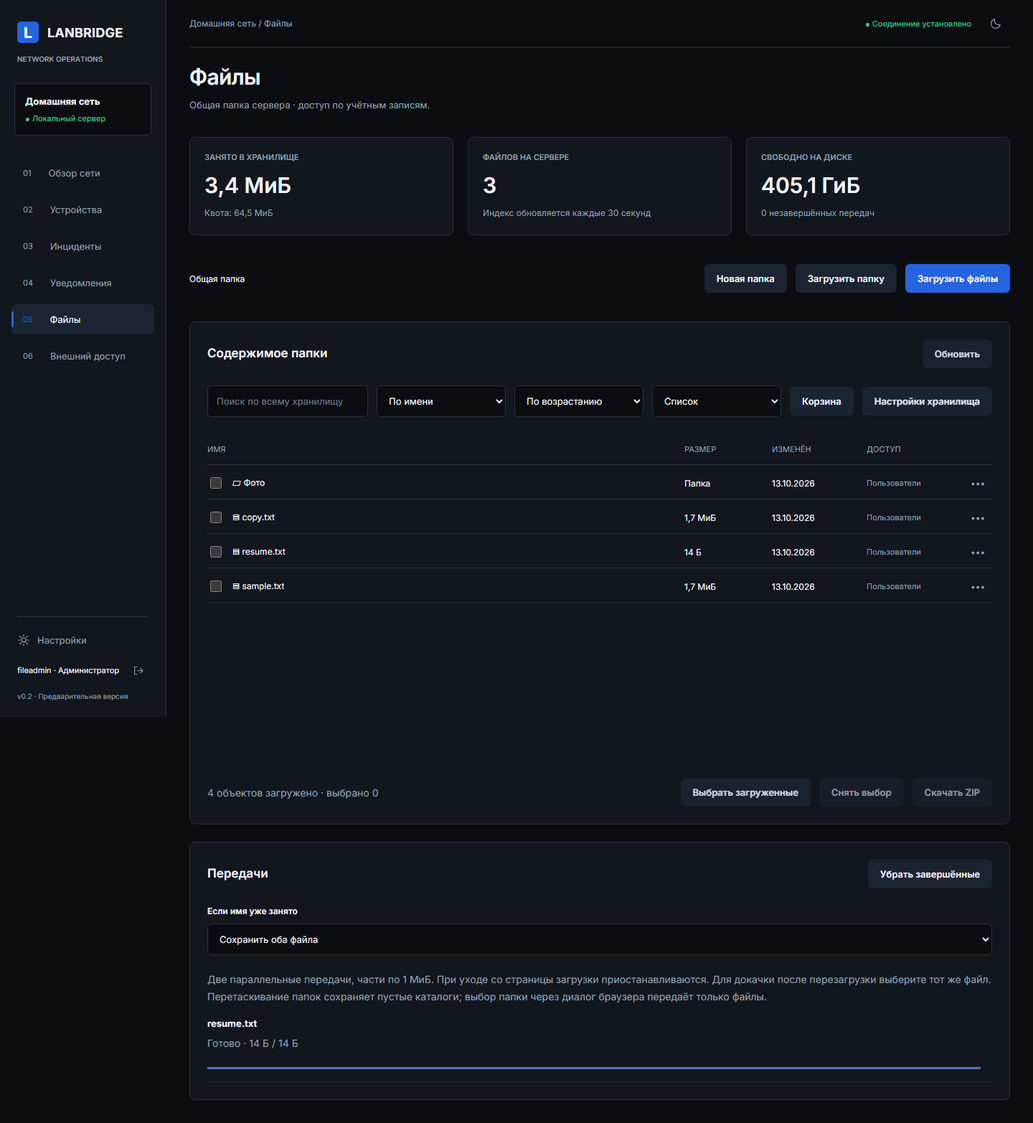
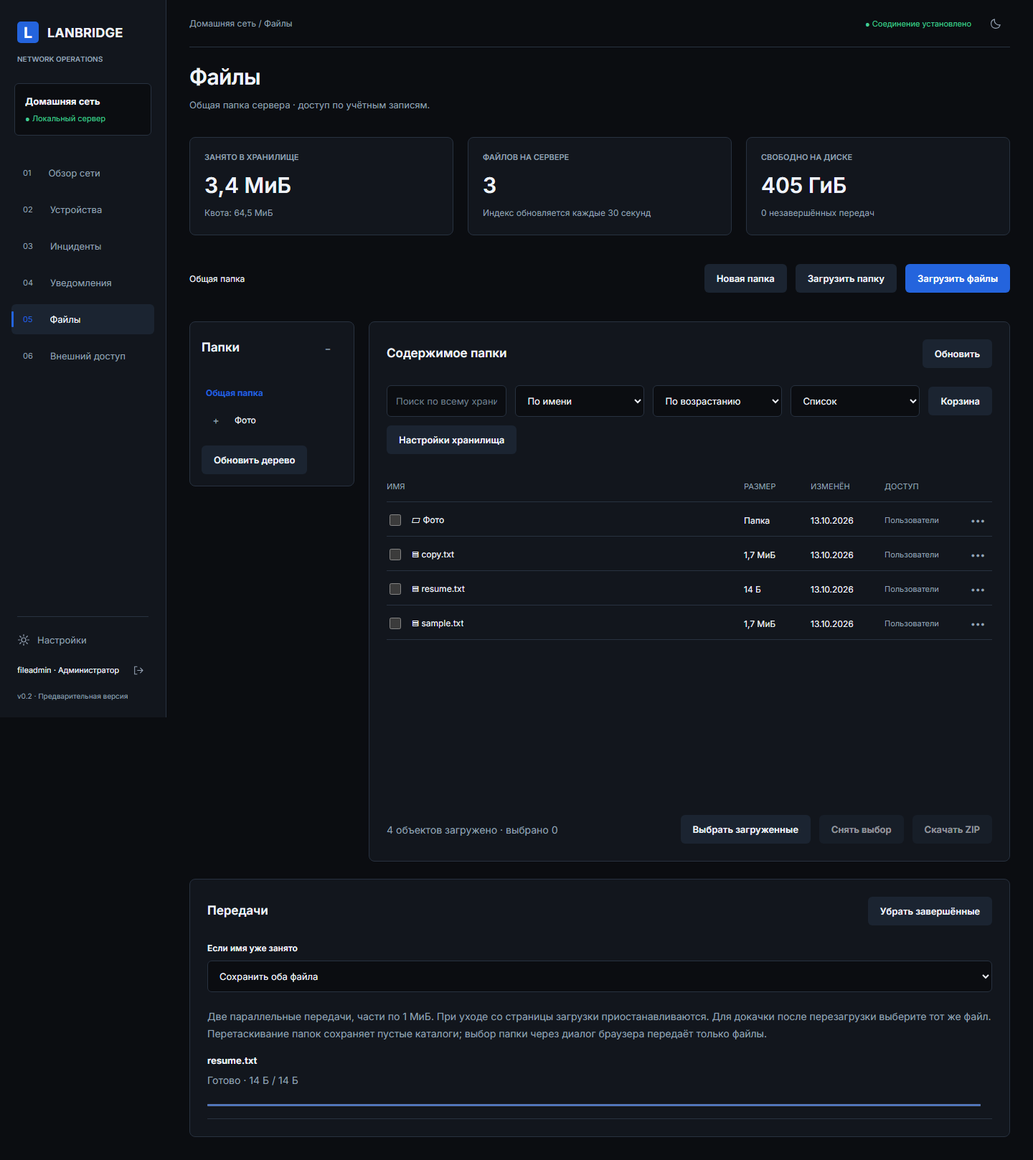
feat: add lazy folder tree with authorized pagination

diff --git a/web/src/files.js b/web/src/files.js
@@ -1,8 +1,9 @@
 import {h} from 'preact';
-import {useEffect,useRef,useState} from 'preact/hooks';
+import {useEffect,useLayoutEffect,useRef,useState} from 'preact/hooks';
 import htm from 'htm';
 import {StorageSettings} from './storage-settings.js';
 import {FilePreview} from './file-preview.js';
+import {FolderTree} from './folder-tree.js';
 const html=htm.bind(h);
 export const bytes=n=>{if(!n)return '0 Б';const k=Math.min(4,Math.floor(Math.log(n)/Math.log(1024)));return (n/1024**k).toLocaleString('ru-RU',{maximumFractionDigits:1})+' '+['Б','КиБ','МиБ','ГиБ','ТиБ'][k]};
 const join=(folder,name)=>folder==='.'?name:folder+'/'+name;
@@ -46,7 +47,7 @@ export function FileBrowser({api,notify,user,csrf}){
  async function operate(e){e.preventDefault();const f=new FormData(e.currentTarget);try{if(dialog.action==='mkdir')await api('files/mkdir','POST',{path:join(folder,f.get('name'))});else if(dialog.action==='access')await api('files/access','PUT',{path:dialog.item.path,access:f.get('access')});else await api('files/operation','POST',{action:dialog.action,source:dialog.item.path,target:f.get('name')||'',conflict:f.get('conflict')||'skip'});setDialog(null);refresh()}catch(e){notify(e.message,true)}}
  const columns=view==='grid'?Math.max(1,Math.min(5,Math.floor(width/220))):1;
  useEffect(()=>{const observer=new ResizeObserver(([entry])=>setWidth(entry.contentRect.width));observer.observe(viewport.current);return()=>observer.disconnect()},[]);
- useEffect(()=>{setScroll(0);if(viewport.current)viewport.current.scrollTop=0},[view,columns]);
+ useLayoutEffect(()=>{setScroll(0);if(viewport.current)viewport.current.scrollTop=0},[view,columns]);
  const rowHeight=view==='grid'?144:48;
  const start=Math.max(0,Math.floor(scroll/rowHeight)-(view==='grid'?1:3))*columns;
  const visible=items.slice(start,start+(view==='grid'?7*columns:18));
@@ -58,8 +59,8 @@ export function FileBrowser({api,notify,user,csrf}){
  return html`<div class="stats three"><section class="stat"><h2>ЗАНЯТО В ХРАНИЛИЩЕ</h2><strong>${storage?bytes(storage.used):'—'}</strong><p>${storage?.settings.global_limit?'Квота: '+bytes(storage.settings.global_limit):'Квота не ограничена'}</p></section><section class="stat"><h2>ФАЙЛОВ НА СЕРВЕРЕ</h2><strong>${storage?.files??'—'}</strong><p>Индекс обновляется каждые 30 секунд</p></section><section class="stat"><h2>СВОБОДНО НА ДИСКЕ</h2><strong>${storage?bytes(storage.available):'—'}</strong><p>${busy} незавершённых передач</p></section></div>
  <div class="file-actions"><nav aria-label="Путь к папке"><button class="monitor-name" onClick=${()=>setFolder('.')}>Общая папка</button>${folder!=='.'&&folder.split('/').map((part,i)=>html`<span> / <button class="monitor-name" onClick=${()=>setFolder(folder.split('/').slice(0,i+1).join('/'))}>${part}</button></span>`)}</nav><div class="dialog-actions"><button class="button secondary" onClick=${()=>setDialog({action:'mkdir'})}>Новая папка</button><button class="button secondary" onClick=${()=>directory.current.click()}>Загрузить папку</button><button class="button" onClick=${()=>input.current.click()}>Загрузить файлы</button></div></div>
  <input hidden type="file" multiple ref=${input} onChange=${e=>{addFiles(Array.from(e.currentTarget.files));e.currentTarget.value=''}}/><input hidden type="file" multiple webkitdirectory=${true} ref=${directory} onChange=${e=>{addFiles(Array.from(e.currentTarget.files));e.currentTarget.value=''}}/><input hidden type="file" ref=${resumeInput} onChange=${e=>{const file=e.currentTarget.files[0],j=resumeItem.current;if(file&&j){if(file.size!==j.size)notify('Размер исходного файла не совпадает',true);else{j.file=file;j.state='queued';redraw();pump()}}e.currentTarget.value=''}}/>
- <section class="panel file-panel" onDragOver=${e=>e.preventDefault()} onDrop=${dropped}><div class="panel-heading"><h2>Содержимое папки</h2><button class="button secondary" onClick=${()=>refresh()} disabled=${loading}>Обновить</button></div><div class="toolbar"><input aria-label="Поиск файлов" placeholder="Поиск по всему хранилищу" value=${query} onInput=${e=>setQuery(e.currentTarget.value)}/><select aria-label="Сортировка файлов" value=${sort} onChange=${e=>setSort(e.currentTarget.value)}><option value="name">По имени</option><option value="size">По размеру</option><option value="modified">По дате</option></select><select aria-label="Порядок сортировки" value=${order} onChange=${e=>setOrder(e.currentTarget.value)}><option value="asc">По возрастанию</option><option value="desc">По убыванию</option></select><select aria-label="Вид файлов" value=${view} onChange=${e=>setView(e.currentTarget.value)}><option value="list">Список</option><option value="grid">Плитки</option></select><button class="button secondary" onClick=${openTrash}>Корзина</button>${user.role==='admin'&&html`<button class="button secondary" disabled=${!storage} onClick=${()=>setDialog({action:'storage'})}>Настройки хранилища</button>`}</div>${error&&html`<p class="form-error" role="alert">${error}</p>`}
- <div class="file-list-head" hidden=${view==='grid'}><span>ИМЯ</span><span>РАЗМЕР</span><span>ИЗМЕНЁН</span><span>ДОСТУП</span></div><div class="file-viewport" ref=${viewport} onScroll=${e=>setScroll(e.currentTarget.scrollTop)} aria-label="Список файлов" aria-busy=${loading} role="list"><div style=${{height:Math.max(Math.ceil(items.length/columns)*rowHeight,items.length?0:140)+'px',position:'relative'}}>${visible.map((item,i)=>html`<div role="listitem" class=${view==='grid'?'file-row file-tile':'file-row'} key=${item.path} aria-posinset=${start+i+1} aria-setsize=${items.length} style=${view==='grid'?{top:(Math.floor((start+i)/columns)*rowHeight)+'px',left:((start+i)%columns*100/columns)+'%',width:'calc('+100/columns+'% - 10px)'}:{top:((start+i)*48)+'px'}}><div class="file-name"><input type="checkbox" aria-label=${'Выбрать '+item.name} checked=${selected.includes(item.path)} disabled=${!selected.includes(item.path)&&selected.length>=1000} onChange=${e=>toggleSelection(item.path,e.currentTarget.checked)}/>${item.directory?html`<button class="monitor-name" title=${item.path} onClick=${()=>{setFolder(item.path);setQuery('')}}>▱ ${item.name}</button>`:html`<a title=${item.path} href=${download(item.path)}>▤ ${item.name}</a>`}</div><span>${item.directory?'Папка':bytes(item.size)}</span><span>${new Date(item.modified/1e6).toLocaleDateString('ru-RU')}</span><div class="file-row-end"><span>${{users:'Пользователи',admin:'Администратор',read:'Чтение'}[item.access]}</span><button class="icon-button" aria-label=${'Действия: '+item.name} onClick=${()=>setDialog({action:'menu',item})}>•••</button></div></div>`)}${!items.length&&html`<div class="empty compact"><h3>${loading?'Загрузка…':query?'Ничего не найдено':'Папка пуста'}</h3><p>Перетащите сюда файлы или папки.</p></div>`}</div></div><div class="file-actions"><span class="muted">${items.length} объектов загружено · выбрано ${selected.length}</span><div class="dialog-actions">${more&&html`<button class="button secondary" disabled=${loading} onClick=${()=>refresh(true)}>Загрузить ещё</button>`}<button class="button secondary" disabled=${!items.length||loading} onClick=${selectLoaded}>${items.length>1000?'Выбрать первые 1000':'Выбрать загруженные'}</button><button class="button secondary" disabled=${!selected.length} onClick=${()=>setSelected([])}>Снять выбор</button><button class="button secondary" disabled=${!selected.length||zipTooLarge} onClick=${zip}>Скачать ZIP</button></div></div>${zipTooLarge&&html`<p class="warning" role="status">Сократите выбор: общий список имён слишком большой. Можно выбрать родительскую папку вместо отдельных файлов.</p>`}</section>
+ <div class="file-browser-layout"><${FolderTree} api=${api} folder=${folder} onNavigate=${path=>{setFolder(path);setQuery('')}}/><section class="panel file-panel" onDragOver=${e=>e.preventDefault()} onDrop=${dropped}><div class="panel-heading"><h2>Содержимое папки</h2><button class="button secondary" onClick=${()=>refresh()} disabled=${loading}>Обновить</button></div><div class="toolbar"><input aria-label="Поиск файлов" placeholder="Поиск по всему хранилищу" value=${query} onInput=${e=>setQuery(e.currentTarget.value)}/><select aria-label="Сортировка файлов" value=${sort} onChange=${e=>setSort(e.currentTarget.value)}><option value="name">По имени</option><option value="size">По размеру</option><option value="modified">По дате</option></select><select aria-label="Порядок сортировки" value=${order} onChange=${e=>setOrder(e.currentTarget.value)}><option value="asc">По возрастанию</option><option value="desc">По убыванию</option></select><select aria-label="Вид файлов" value=${view} onChange=${e=>setView(e.currentTarget.value)}><option value="list">Список</option><option value="grid">Плитки</option></select><button class="button secondary" onClick=${openTrash}>Корзина</button>${user.role==='admin'&&html`<button class="button secondary" disabled=${!storage} onClick=${()=>setDialog({action:'storage'})}>Настройки хранилища</button>`}</div>${error&&html`<p class="form-error" role="alert">${error}</p>`}
+ <div class="file-list-head" hidden=${view==='grid'}><span>ИМЯ</span><span>РАЗМЕР</span><span>ИЗМЕНЁН</span><span>ДОСТУП</span></div><div class="file-viewport" ref=${viewport} onScroll=${e=>setScroll(e.currentTarget.scrollTop)} aria-label="Список файлов" aria-busy=${loading} role="list"><div style=${{height:Math.max(Math.ceil(items.length/columns)*rowHeight,items.length?0:140)+'px',position:'relative'}}>${visible.map((item,i)=>html`<div role="listitem" class=${view==='grid'?'file-row file-tile':'file-row'} key=${item.path} aria-posinset=${start+i+1} aria-setsize=${items.length} style=${view==='grid'?{top:(Math.floor((start+i)/columns)*rowHeight)+'px',left:((start+i)%columns*100/columns)+'%',width:'calc('+100/columns+'% - 10px)'}:{top:((start+i)*48)+'px'}}><div class="file-name"><input type="checkbox" aria-label=${'Выбрать '+item.name} checked=${selected.includes(item.path)} disabled=${!selected.includes(item.path)&&selected.length>=1000} onChange=${e=>toggleSelection(item.path,e.currentTarget.checked)}/>${item.directory?html`<button class="monitor-name" title=${item.path} onClick=${()=>{setFolder(item.path);setQuery('')}}>▱ ${item.name}</button>`:html`<a title=${item.path} href=${download(item.path)}>▤ ${item.name}</a>`}</div><span>${item.directory?'Папка':bytes(item.size)}</span><span>${new Date(item.modified/1e6).toLocaleDateString('ru-RU')}</span><div class="file-row-end"><span>${{users:'Пользователи',admin:'Администратор',read:'Чтение'}[item.access]}</span><button class="icon-button" aria-label=${'Действия: '+item.name} onClick=${()=>setDialog({action:'menu',item})}>•••</button></div></div>`)}${!items.length&&html`<div class="empty compact"><h3>${loading?'Загрузка…':query?'Ничего не найдено':'Папка пуста'}</h3><p>Перетащите сюда файлы или папки.</p></div>`}</div></div><div class="file-actions"><span class="muted">${items.length} объектов загружено · выбрано ${selected.length}</span><div class="dialog-actions">${more&&html`<button class="button secondary" disabled=${loading} onClick=${()=>refresh(true)}>Загрузить ещё</button>`}<button class="button secondary" disabled=${!items.length||loading} onClick=${selectLoaded}>${items.length>1000?'Выбрать первые 1000':'Выбрать загруженные'}</button><button class="button secondary" disabled=${!selected.length} onClick=${()=>setSelected([])}>Снять выбор</button><button class="button secondary" disabled=${!selected.length||zipTooLarge} onClick=${zip}>Скачать ZIP</button></div></div>${zipTooLarge&&html`<p class="warning" role="status">Сократите выбор: общий список имён слишком большой. Можно выбрать родительскую папку вместо отдельных файлов.</p>`}</section></div>
  <section class="panel"><div class="panel-heading"><h2>Передачи</h2><button class="button secondary" onClick=${()=>{jobs.current=jobs.current.filter(j=>j.state!=='complete');redraw()}}>Убрать завершённые</button></div><label class="field"><span>Если имя уже занято</span><select value=${conflict} onChange=${e=>setConflict(e.currentTarget.value)}><option value="both">Сохранить оба файла</option><option value="skip">Пропустить (показать конфликт)</option><option value="replace">Заменить существующий файл</option></select></label><p class="muted">Две параллельные передачи, части по 1 МиБ. При уходе со страницы загрузки приостанавливаются. Для докачки после перезагрузки выберите тот же файл. Перетаскивание папок сохраняет пустые каталоги; выбор папки через диалог браузера передаёт только файлы.</p><div class="upload-list">${queue.map(j=>html`<div class="upload-row" key=${j.key}><div><strong>${j.path}</strong><p class="muted">${labels[j.state]} · ${bytes(j.offset||0)} / ${bytes(j.size)}${j.state==='hashing'?' · '+Math.round(100*(j.hashed||0)/Math.max(1,j.size))+'%':j.state==='uploading'&&j.speed?' · '+bytes(j.speed)+'/с · осталось '+Math.ceil((j.size-j.offset)/j.speed)+' с':''}</p><progress max=${Math.max(1,j.size)} value=${j.state==='complete'?Math.max(1,j.size):j.offset||0}/>${j.error&&html`<p class="form-error">${j.error}</p>`}</div><div class="dialog-actions">${['hashing','uploading','finishing'].includes(j.state)?html`<button class="button secondary" onClick=${()=>j.controller?.abort()}>Пауза</button>`:['paused','choose','error'].includes(j.state)&&html`<button class="button secondary" onClick=${()=>resume(j)}>${j.file||j.serverState==='committing'?'Продолжить':'Выбрать файл'}</button>`}${j.state!=='complete'&&html`<button class="icon-button" aria-label=${'Отменить '+j.path} onClick=${()=>cancel(j)}>×</button>`}</div></div>`)}</div>${!queue.length&&html`<p class="muted">Нет активных передач.</p>`}</section>
  ${dialog?.action==='storage'&&html`<${StorageSettings} settings=${storage.settings} api=${api} onClose=${()=>setDialog(null)} onSaved=${settings=>{setStorage({...storage,settings});setDialog(null);notify('Настройки хранилища сохранены')}}/>`}
  ${dialog?.action==='preview'&&html`<${FilePreview} item=${dialog.item} onClose=${()=>setDialog(null)}/>`}

diff --git a/web/src/folder-tree.js b/web/src/folder-tree.js
@@ -1,0 +1,26 @@
+import {h} from 'preact';
+import {useEffect,useState} from 'preact/hooks';
+import htm from 'htm';
+const html=htm.bind(h);
+export function FolderTree({api,folder,onNavigate}) {
+ const[shown,setShown]=useState(true),[revision,setRevision]=useState(0);
+ return html`<aside class="folder-tree panel" aria-label="Дерево папок">
+  <div class="panel-heading"><h2>Папки</h2><button class="icon-button" aria-label=${shown?'Свернуть дерево папок':'Показать дерево папок'} aria-expanded=${shown} onClick=${()=>setShown(!shown)}>${shown?'−':'+'}</button></div>
+  ${shown&&html`<nav aria-label="Навигация по папкам"><button class="folder-link" aria-current=${folder==='.'?'location':undefined} onClick=${()=>onNavigate('.')}>Общая папка</button><${Branch} key=${revision} api=${api} path="." folder=${folder} onNavigate=${onNavigate}/></nav><button class="button secondary" onClick=${()=>setRevision(revision+1)}>Обновить дерево</button>`}
+ </aside>`;
+}
+function Branch({api,path,folder,onNavigate,depth=0}) {
+ const[items,setItems]=useState([]),[offset,setOffset]=useState(0),[more,setMore]=useState(false),[busy,setBusy]=useState(true),[error,setError]=useState(''),[expanded,setExpanded]=useState(null),[retry,setRetry]=useState(0);
+ useEffect(()=>{
+  let active=true;setBusy(true);setError('');setItems([]);setExpanded(null);
+  api('files?'+new URLSearchParams({path,folders:1,limit:50,offset})).then(data=>{if(active){setItems(data);setMore(data.length===50)}}).catch(e=>{if(active)setError(e.message)}).finally(()=>{if(active)setBusy(false)});
+  return()=>{active=false};
+ },[path,offset,retry]);
+ return html`<div class="folder-branch" aria-busy=${busy}>
+  ${busy&&html`<p class="muted" role="status">Загрузка папок…</p>`}
+  ${error&&html`<p class="form-error" role="alert">${error}</p><button class="folder-link" onClick=${()=>setRetry(retry+1)}>Повторить</button>`}
+  ${!busy&&!error&&!items.length&&html`<p class="muted">Нет подпапок</p>`}
+  ${items.map(item=>html`<div key=${item.path}><div class="folder-tree-row"><button class="icon-button" aria-label=${(expanded===item.path?'Свернуть ':'Раскрыть ')+item.name} aria-expanded=${expanded===item.path} onClick=${()=>setExpanded(expanded===item.path?null:item.path)}>${expanded===item.path?'−':'+'}</button><button class="folder-link" title=${item.path} aria-current=${folder===item.path?'location':undefined} onClick=${()=>onNavigate(item.path)}>${item.name}</button></div>${expanded===item.path&&html`<div class=${depth<5?'folder-indent':''}><${Branch} api=${api} path=${item.path} folder=${folder} onNavigate=${onNavigate} depth=${depth+1}/></div>`}</div>`)}
+  ${(offset>0||more)&&!error&&html`<div class="folder-pages"><button class="folder-link" disabled=${busy||offset===0} onClick=${()=>setOffset(Math.max(0,offset-50))}>Назад</button><span>${items.length?(offset+1)+'–'+(offset+items.length):'Нет папок'}</span><button class="folder-link" disabled=${busy||!more} onClick=${()=>setOffset(offset+50)}>Далее</button></div>`}
+ </div>`;
+}

diff --git a/web/src/style.css b/web/src/style.css
@@ -24,3 +24,7 @@
 .file-preview{width:min(900px,calc(100vw - 32px))}.file-preview h2{overflow-wrap:anywhere;min-width:0}.file-preview img,.file-preview video{display:block;max-width:100%;max-height:60dvh;margin:16px auto;object-fit:contain}.file-preview-text{max-height:55dvh;overflow:auto;white-space:pre-wrap;overflow-wrap:anywhere;background:var(--bg);padding:16px;border-radius:6px;font:13px/1.6 monospace}
 
 .file-list-head[hidden]{display:none}.file-row.file-tile{height:132px;right:auto;padding:12px;display:grid;grid-template-columns:1fr 1fr;gap:8px;background:var(--raised);border:1px solid var(--line);border-radius:8px}.file-tile .file-name,.file-tile .file-row-end{grid-column:1 / -1}.file-tile .file-name{min-height:32px}.file-tile>span:nth-child(3){display:block;text-align:right}.file-tile .file-row-end>span{display:inline}.file-tile .file-row-end{justify-content:space-between}.file-tile .icon-button{min-width:40px;min-height:40px}
+
+.file-browser-layout{display:grid;grid-template-columns:230px minmax(0,1fr);gap:20px;align-items:start}.file-browser-layout .file-panel{min-width:0}.folder-tree{padding:16px}.folder-tree nav{max-height:500px;overflow:auto;margin-bottom:16px}.folder-tree-row{display:flex;align-items:center;min-width:0}.folder-tree-row .icon-button{flex-shrink:0;min-width:32px}.folder-link{border:0;background:none;color:var(--text);text-align:left;min-height:36px;padding:6px;font:inherit;font-size:12px;overflow-wrap:anywhere;cursor:pointer}.folder-link[aria-current]{color:var(--accent);font-weight:700}.folder-link:disabled{opacity:.45;cursor:default}.folder-indent{margin-left:10px;border-left:1px solid var(--line)}.folder-pages{display:flex;align-items:center;justify-content:space-between;font-size:10px;color:var(--muted);gap:4px}.folder-branch .muted{font-size:11px;padding:0 6px}.file-browser-layout .file-row:not(.file-tile),.file-browser-layout .file-list-head{grid-template-columns:minmax(140px,1fr) 85px 95px 150px;gap:8px}
+@media(max-width:1200px){.file-browser-layout{grid-template-columns:1fr}.folder-tree nav{max-height:260px}}
+@media(max-width:700px){.file-browser-layout .file-row:not(.file-tile),.file-browser-layout .file-list-head{grid-template-columns:minmax(140px,1fr) 76px 40px}.folder-tree{padding:12px}}

diff --git a/scripts/verify_go_files.py b/scripts/verify_go_files.py
@@ -50,6 +50,17 @@ def main():
      page.locator('dialog input[name=name]').fill('Фото/Пустая')
      page.get_by_role("button",name="Применить",exact=True).click()
      page.get_by_role('button',name='▱ Фото',exact=True).wait_for()
+     tree=page.get_by_role('complementary',name='Дерево папок')
+     tree.get_by_role('button',name='Обновить дерево',exact=True).click()
+     tree.get_by_role('button',name='Раскрыть Фото',exact=True).click()
+     tree.get_by_role('button',name='Пустая',exact=True).click()
+     page.get_by_role('heading',name='Папка пуста',exact=True).wait_for()
+     tree.get_by_role('button',name='Общая папка',exact=True).click()
+     page.get_by_role('button',name='▱ Фото',exact=True).wait_for()
+     tree.get_by_role('button',name='Свернуть дерево папок',exact=True).click()
+     assert tree.get_by_role('navigation').count()==0
+     tree.get_by_role('button',name='Показать дерево папок',exact=True).click()
+
      content=b'hello file storage'*100000
      page.locator('input[type=file][multiple]:not([webkitdirectory])').set_input_files({"name":"sample.txt","mimeType":"text/plain","buffer":content})
      page.get_by_role('link',name='▤ sample.txt',exact=True).wait_for(timeout=30000)
@@ -116,6 +127,12 @@ def main():
      page.get_by_role('button',name='Обновить',exact=True).click();page.get_by_role('button',name='Загрузить ещё',exact=True).wait_for()
      page.get_by_role('button',name='Загрузить ещё',exact=True).click();page.wait_for_function("()=>document.querySelector('.file-actions .muted')?.textContent.includes('1000 объектов')")
      page.get_by_role('button',name='Загрузить ещё',exact=True).click();page.wait_for_function("()=>document.querySelector('.file-actions .muted')?.textContent.includes('1104 объектов')")
+     tree.get_by_role('button',name='Обновить дерево',exact=True).click()
+     tree.get_by_role('button',name='load-0000',exact=True).wait_for()
+     assert tree.locator('.folder-tree-row').count()==50
+     tree.get_by_role('button',name='Далее',exact=True).click()
+     tree.get_by_role('button',name='load-0050',exact=True).wait_for()
+     assert tree.locator('.folder-tree-row').count()==50
      page.get_by_role('button',name='Выбрать первые 1000',exact=True).click()
      page.wait_for_function("()=>document.querySelector('.file-actions .muted')?.textContent.includes('выбрано 1000')")
      page.get_by_role('button',name='Снять выбор',exact=True).click()

diff --git a/internal/files/service.go b/internal/files/service.go
@@ -315,6 +315,12 @@ func (s *Service) record(ctx context.Context, name string, owner int64) error {
 	return e
 }
 func (s *Service) List(ctx context.Context, a Actor, raw, q, sort, order string, offset, limit int) ([]Entry, error) {
+	return s.list(ctx, a, raw, q, sort, order, offset, limit, false)
+}
+func (s *Service) Folders(ctx context.Context, a Actor, raw string, offset, limit int) ([]Entry, error) {
+	return s.list(ctx, a, raw, "", "name", "asc", offset, limit, true)
+}
+func (s *Service) list(ctx context.Context, a Actor, raw, q, sort, order string, offset, limit int, foldersOnly bool) ([]Entry, error) {
 	name, e := s.check(ctx, a, raw, false)
 	if e != nil {
 		return nil, e
@@ -339,6 +345,9 @@ func (s *Service) List(ctx context.Context, a Actor, raw, q, sort, order string,
 	if q != "" {
 		query = "SELECT path,name,is_dir,size,modified FROM file_index WHERE instr(name_fold,?)>0"
 		args = []any{strings.ToLower(q)}
+	}
+	if foldersOnly {
+		query += " AND is_dir=1"
 	}
 	// Apply authorization before pagination so hidden entries cannot consume a page.
 	if !a.Admin {

diff --git a/internal/files/files_test.go b/internal/files/files_test.go
@@ -356,3 +356,33 @@ func TestRecoverPublishedHardLink(t *testing.T) {
 		t.Fatal(e)
 	}
 }
+
+func TestFolderListingFiltersBeforePagination(t *testing.T) {
+	s, a := testService(t)
+	ctx := context.Background()
+	for _, name := range []string{"a-hidden", "b-visible", "c-visible"} {
+		if e := s.Mkdir(ctx, a, name); e != nil {
+			t.Fatal(e)
+		}
+	}
+	if e := s.Root.WriteFile("a-file.txt", []byte("text"), 0600); e != nil {
+		t.Fatal(e)
+	}
+	if e := s.Index(ctx); e != nil {
+		t.Fatal(e)
+	}
+	if e := s.SetAccess(ctx, a, "a-hidden", "admin"); e != nil {
+		t.Fatal(e)
+	}
+	rows, e := s.Folders(ctx, Actor{ID: 2}, ".", 0, 1)
+	if e != nil || len(rows) != 1 || rows[0].Path != "b-visible" || !rows[0].Directory {
+		t.Fatal(rows, e)
+	}
+	rows, e = s.Folders(ctx, Actor{ID: 2}, ".", 1, 1)
+	if e != nil || len(rows) != 1 || rows[0].Path != "c-visible" {
+		t.Fatal(rows, e)
+	}
+	if _, e = s.Folders(ctx, Actor{ID: 2}, "a-hidden", 0, 50); !errors.Is(e, ErrAccess) {
+		t.Fatal(e)
+	}
+}

diff --git a/internal/server/files.go b/internal/server/files.go
@@ -75,7 +75,13 @@ func (s *Server) listFiles(w http.ResponseWriter, r *http.Request) {
 	q := r.URL.Query()
 	offset, _ := strconv.Atoi(q.Get("offset"))
 	limit, _ := strconv.Atoi(q.Get("limit"))
-	entries, e := s.Files.List(r.Context(), fileActor(r), q.Get("path"), q.Get("q"), q.Get("sort"), q.Get("order"), offset, limit)
+	var entries []files.Entry
+	var e error
+	if q.Get("folders") == "1" {
+		entries, e = s.Files.Folders(r.Context(), fileActor(r), q.Get("path"), offset, limit)
+	} else {
+		entries, e = s.Files.List(r.Context(), fileActor(r), q.Get("path"), q.Get("q"), q.Get("sort"), q.Get("order"), offset, limit)
+	}
 	if e != nil {
 		s.fileError(w, e)
 		return

diff --git a/docs/progress.md b/docs/progress.md
@@ -1,0 +1,42 @@
+# Остаток работ — 13 октября 2026
+
+Оценка выполнения обязательного задания: примерно **60–65%**. Это инженерная
+оценка объёма работы, а не точная метрика и не обещание срока. До финальной
+готовности остаются четыре крупных блока и доработка существующих модулей.
+
+## Уже работает
+
+Go-приложение со встроенным Preact-интерфейсом, HTTPS, сессиями/ролями/CSRF, SQLite
+WAL и резервными копиями. Мониторы, инциденты, очередь уведомлений, внешний
+heartbeat, обнаружение устройств и диагностика. Файловые папки и дерево, список/
+плитки, поиск/сортировка, загрузка с докачкой/SHA-256, Range/ZIP, корзина, ACL,
+квоты, текстовые и медиа-превью. Настройки оформления и пользователей.
+
+Проверена передача 20 ГиБ с остановкой процесса, продолжением и полным скачиванием;
+результаты и ограничения: [performance.md](performance.md). Текущая готовность
+не означает, что все сценарии на реальной LAN и внешних сервисах проверены.
+
+## Что необходимо закончить
+
+| Блок | Остаток |
+|---|---|
+| 7. Ссылки и телефон | Гостевые ссылки на файл/папку: срок, пароль, лимит скачиваний, отзыв; QR; полноценная история передач и скачиваний |
+| 8. Внешний доступ | Рабочий провайдер туннеля, проверки перед включением, отключение, журнал подключений и режим гостевых ссылок |
+| 9. Доработка и надёжность | Автовосстановление повреждённой БД, ограничения БД/очередей, предупреждения о диске, аудит и дополнительные настройки |
+| 10. Выпуск | Windows-служба, systemd/Docker для Go, проверка на Linux и чистой Windows, полный README по чистому клону, релизный тег |
+
+Оставшиеся детали предыдущих этапов:
+
+- Обзор: реальные карточки CPU/RAM/диска и устройств, разделение WAN/LAN, порядок групп.
+- Файлы: перетаскивание в папку/дерево, Shift/Ctrl и групповые операции,
+  фоновый размер каталогов, PDF; дерево пока обновляется вручную.
+- Настройки: логотип, формат даты, структура i18n, домашняя страница и порядок карточек.
+- Устройства: полная OUI-база; проверка обнаружения на физической сети.
+- Доставка: проверка реальных Telegram/SMTP и тревоги при потере WAN через внешний
+  наблюдатель. Нужны настроенные пользователем адресаты/учётные данные.
+- Проверки: сутки непрерывной совместной нагрузки, отсутствие утечек, 60 fps,
+  отключение сети и заполнение диска. Суточный прогон сам по себе занимает 24 часа;
+  точную дату окончания до его запуска назвать нельзя.
+
+WebDAV остаётся необязательной функцией и не включён в оценку обязательного остатка.
+Следующий крупный этап после файловых доработок — временные ссылки и QR.

diff --git a/docs/go-files.md b/docs/go-files.md
@@ -12,7 +12,13 @@
 `webkitGetAsEntry` сохраняет пустые папки. Диалог «Загрузить папку» использует
 `webkitdirectory`: пустые каталоги этот интерфейс браузера не передаёт.
 
-Нажатие на папку открывает её содержимое, хлебные крошки возвращают выше. Поиск
+Нажатие на папку открывает её содержимое, хлебные крошки возвращают выше.
+Слева находится сворачиваемое дерево папок; на узком экране оно расположено над
+списком. Кнопки «+»/«−» раскрывают ветку, имя открывает папку. На каждом уровне
+раскрыта одна ветка; её подпапки запрашиваются только при раскрытии, по 50 на
+страницу. «Назад»/«Далее» листают папки, «Обновить дерево» перечитывает корень.
+После файловых операций дерево обновляется этой кнопкой. Фильтрация прав и
+выбор только папок выполняются на сервере до пагинации. Поиск
 выполняется по именам во всём доступном хранилище. Сортировка: имя, размер, дата; порядок — по возрастанию или убыванию.
 Папки остаются перед файлами в обоих направлениях.
 API отдаёт до 500 объектов за запрос; «Загрузить ещё» добавляет следующую страницу.
@@ -110,6 +116,7 @@ HTML/XML показываются как текст, без исполнения
 | Метод и маршрут | Назначение |
 |---|---|
 | `GET /api/files?path=.&q=&sort=name&order=asc&offset=0&limit=500` | Список с фильтрацией прав до пагинации |
+| `GET /api/files?path=.&folders=1&offset=0&limit=50` | Только доступные подпапки для дерева |
 | `GET /api/files/download?path=Документы/Отчёт.txt` | Скачивание, HTTP Range |
 | `POST /api/files/mkdir` | `{ "path": "Фото/Пустая" }` |
 | `POST /api/files/operation` | `action`: move/copy/trash, `source`, `target`, `conflict`: skip/both/replace |
@@ -147,7 +154,7 @@ API-тест загрузки/Range/ZIP/корзины; Chromium: загрузк
 Скрипты проверки используют Python с Playwright/psutil и временные каталоги;
 это зависимости разработки, исполняемому Go-приложению они не нужны.
 
-Остаются: дерево папок, предпросмотр PDF и других документов,
+Остаются: перетаскивание файлов в дерево, предпросмотр PDF и других документов,
 временные гостевые ссылки/QR, история скачиваний и автоматические уведомления о
 нехватке места. Процесс копирования пока сериализует изменения метаданных; при
 больших каталогах операции создания/перемещения могут ожидать завершения копии.

diff --git a/README.md b/README.md
@@ -6,6 +6,8 @@
 > Уведомления, очередь и наблюдатель: [docs/go-notifications.md](docs/go-notifications.md).
 > Устройства и диагностика: [docs/go-devices.md](docs/go-devices.md).
 > Настройки квот доступны администратору в разделе «Файлы».
+> Добавлено раскрываемое дерево папок с постраничной загрузкой.
+> Оставшиеся этапы: [docs/progress.md](docs/progress.md).
 > Для ZIP доступны массовый выбор загруженных объектов и снятие выбора.
 > Доступна сортировка файлов по имени, размеру и дате в обоих направлениях.
 > Список файлов переключается на адаптивные плитки; выбор сохраняется в браузере.

diff --git a/CHANGELOG.md b/CHANGELOG.md
@@ -6,6 +6,10 @@
 
 ### Переход на Go
 
+- Добавлено раскрываемое дерево папок: загрузка по требованию, страницы по 50,
+  проверка прав до пагинации, сворачивание панели и мобильная компоновка.
+- Исправлена гонка сброса прокрутки при переключении списка на плитки.
+
 - Добавлены выбор загруженных файлов и снятие выбора для ZIP, ограничение в
   1000 объектов и сообщение при превышении допустимого объёма списка имён.
 - После обновления списка удаляются отметки отсутствующих в нём объектов.
